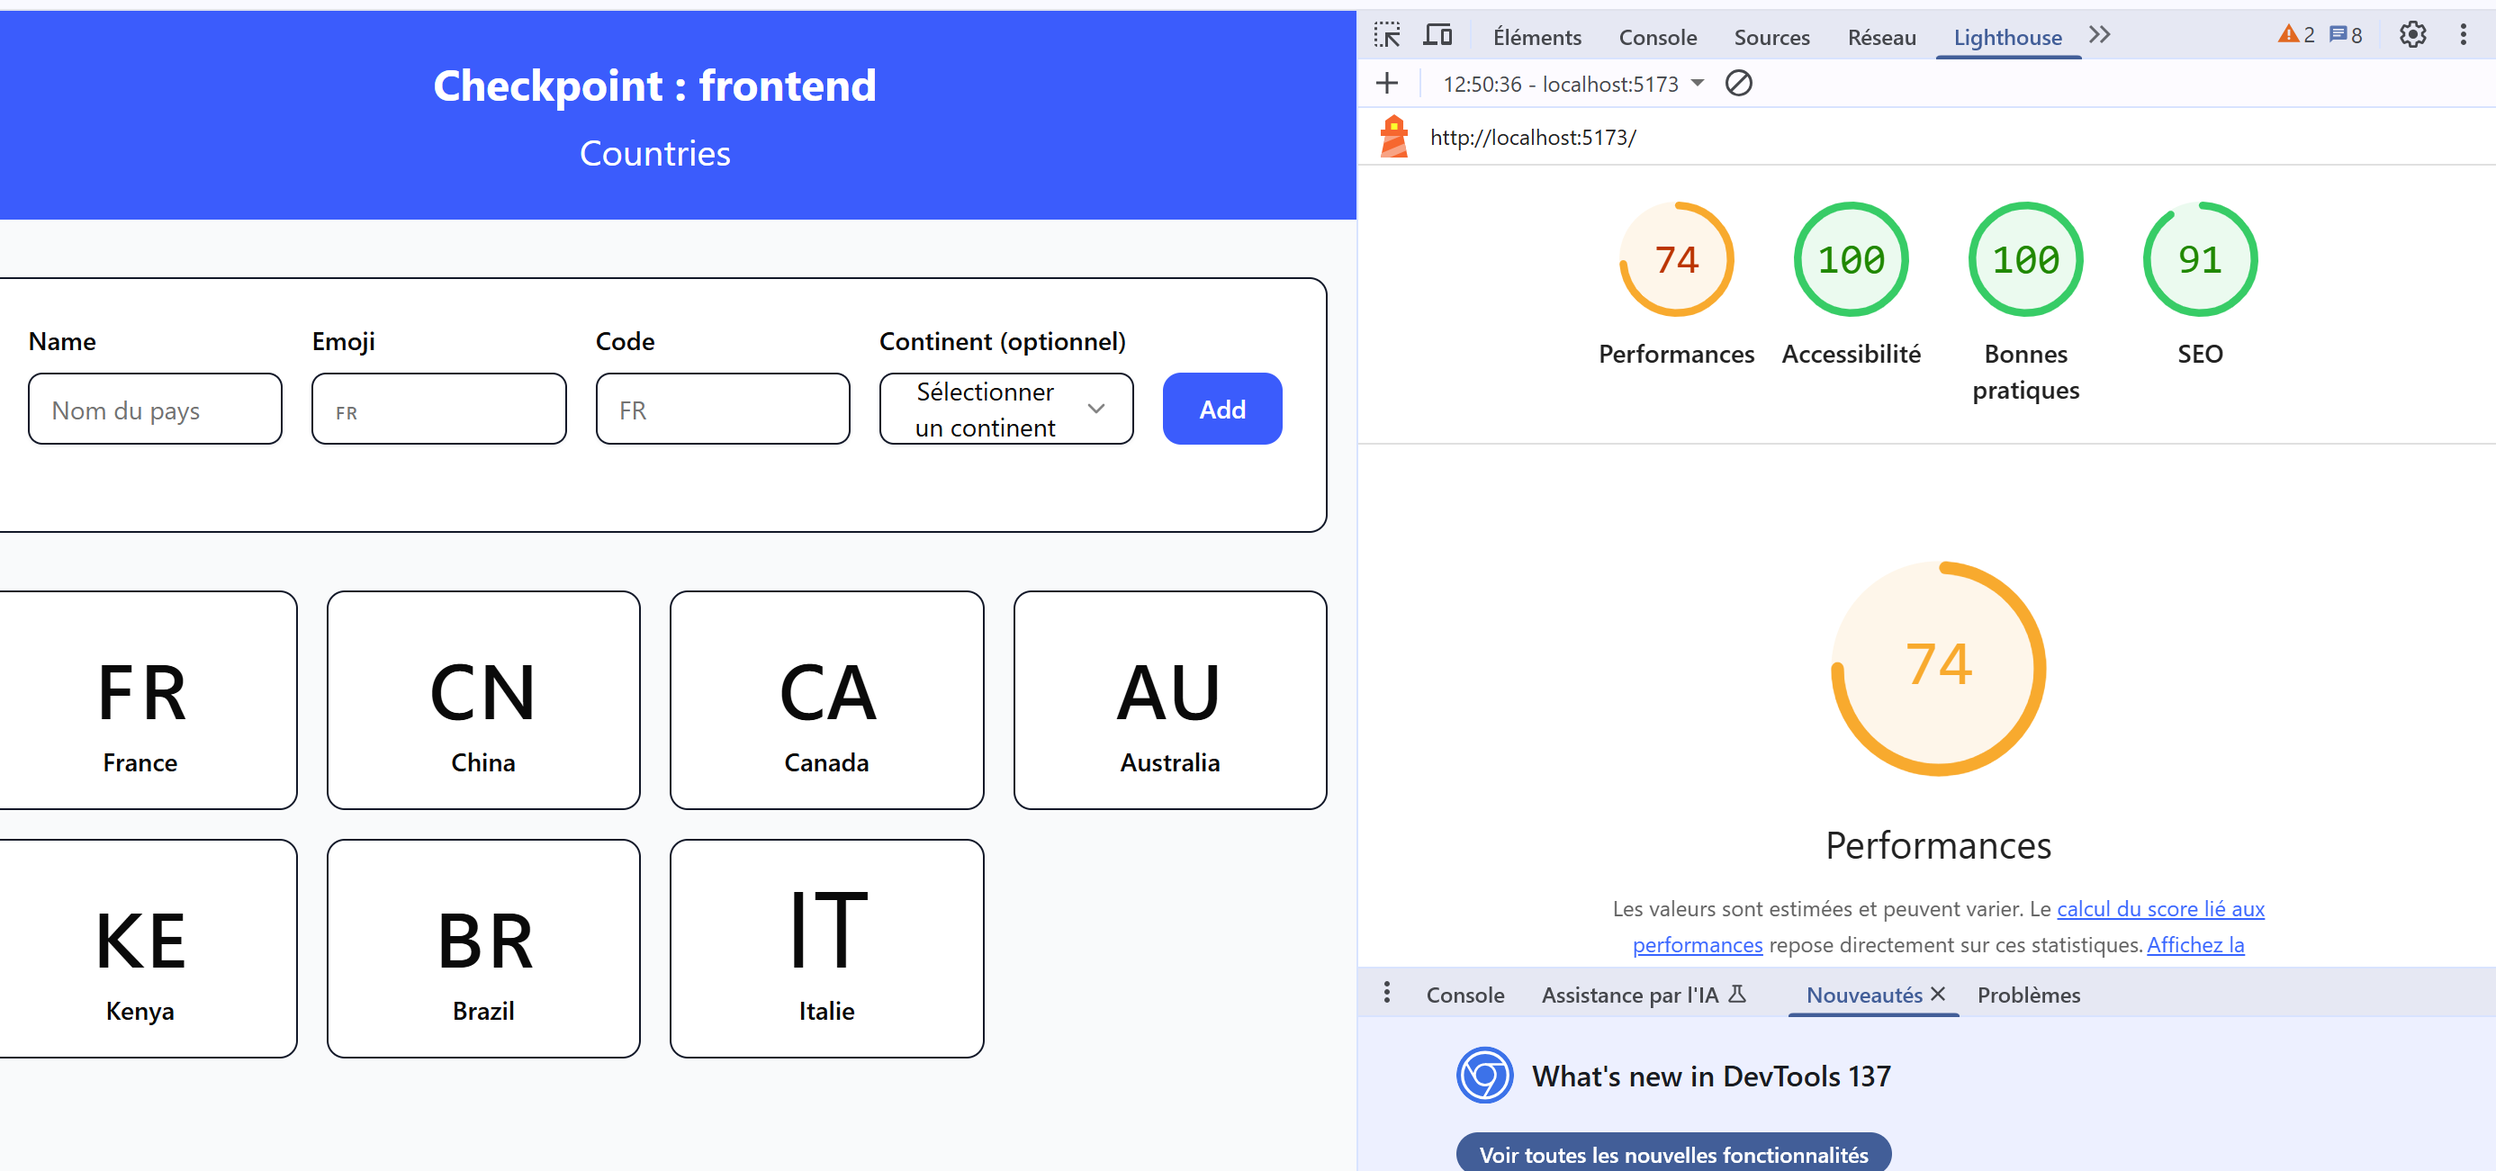
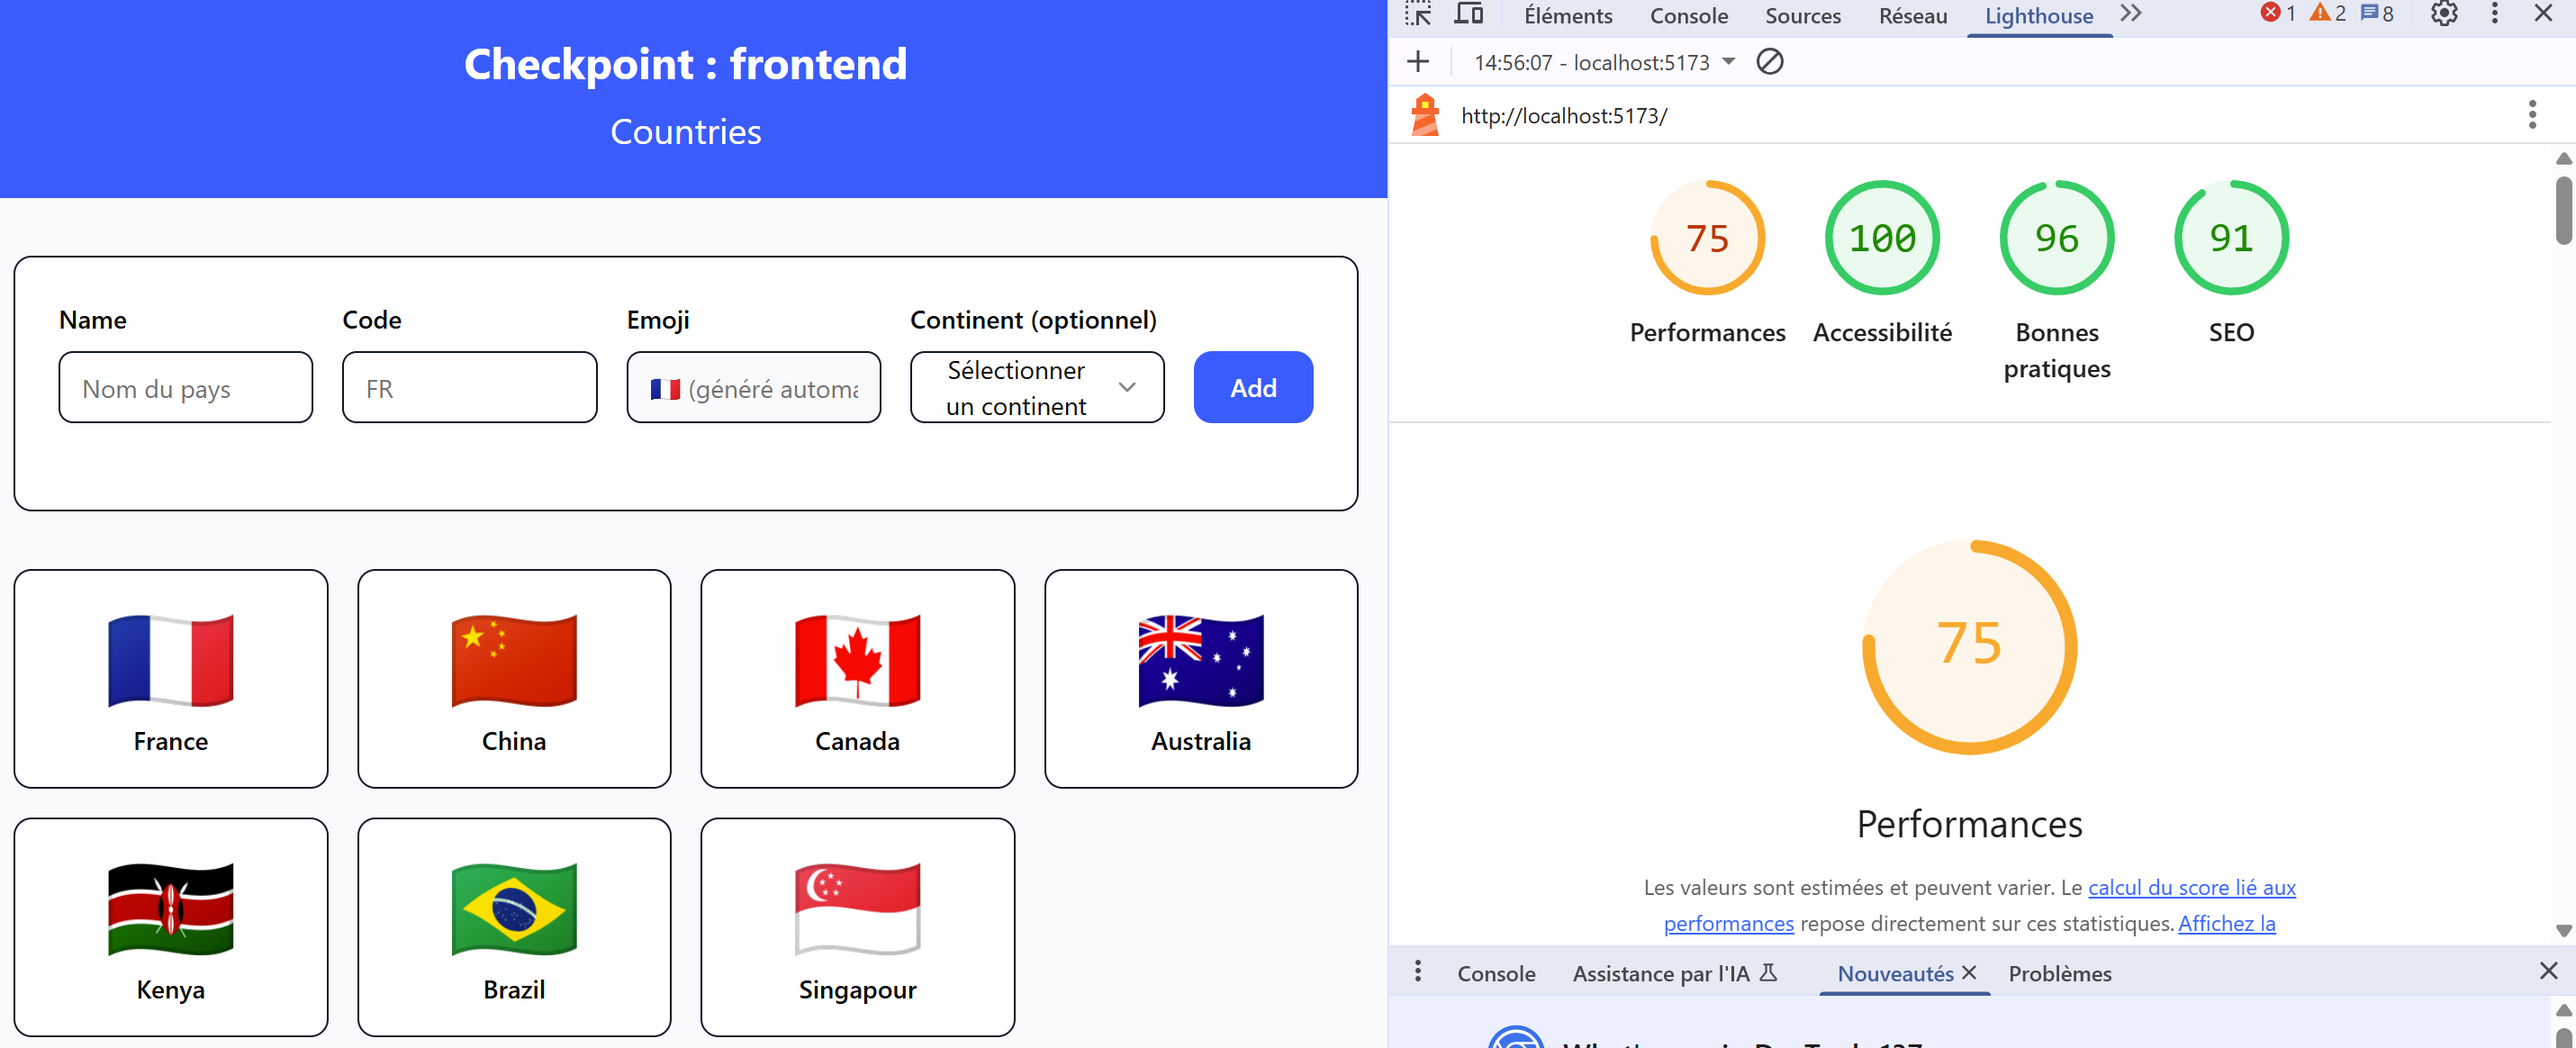
:sparkles: add new screensshots

diff --git a/frontend/src/components/AddCountryForm.tsx b/frontend/src/components/AddCountryForm.tsx
@@ -24,6 +24,20 @@ export function AddCountryForm({ onSuccess }: AddCountryFormProps) {
   });
   const [errors, setErrors] = useState<Record<string, string>>({});
 
+  // Fonction pour convertir un code pays en emoji drapeau
+  const codeToFlagEmoji = (code: string): string => {
+    // Vérifier que le code a 2 caractères
+    if (code.length !== 2) return "";
+
+    // Convertir chaque lettre en indicateur régional Unicode
+    const codePoints = code
+      .toUpperCase()
+      .split("")
+      .map((char) => 127397 + char.charCodeAt(0));
+
+    return String.fromCodePoint(...codePoints);
+  };
+
   const { data: continentsData } = useQuery<{ continents: Continent[] }>(
     GET_CONTINENTS
   );
@@ -60,9 +74,7 @@ export function AddCountryForm({ onSuccess }: AddCountryFormProps) {
     }
 
     if (!formData.emoji.trim()) {
-      newErrors.emoji = "L'emoji est requis";
-    } else if (formData.emoji.length > 4) {
-      newErrors.emoji = "L'emoji doit contenir au maximum 4 caractères";
+      newErrors.emoji = "Entrez d'abord un code pays à 2 lettres";
     }
 
     setErrors(newErrors);
@@ -83,7 +95,25 @@ export function AddCountryForm({ onSuccess }: AddCountryFormProps) {
   };
 
   const handleInputChange = (field: keyof NewCountryInput, value: string) => {
-    setFormData((prev) => ({ ...prev, [field]: value }));
+    setFormData((prev) => {
+      const newData = { ...prev, [field]: value };
+
+      // Si on modifie le code, mettre à jour automatiquement l'emoji
+      if (field === "code") {
+        if (value.length === 2) {
+          const flagEmoji = codeToFlagEmoji(value);
+          if (flagEmoji) {
+            newData.emoji = flagEmoji;
+          }
+        } else {
+          // Effacer l'emoji si le code n'a pas 2 caractères
+          newData.emoji = "";
+        }
+      }
+
+      return newData;
+    });
+
     if (errors[field]) {
       setErrors((prev) => ({ ...prev, [field]: "" }));
     }
@@ -116,21 +146,6 @@ export function AddCountryForm({ onSuccess }: AddCountryFormProps) {
         </div>
 
         <div className="flex-1">
-          <label className="block text-sm font-medium mb-2">Emoji</label>
-          <Input
-            value={formData.emoji}
-            onChange={(e) => handleInputChange("emoji", e.target.value)}
-            placeholder="🇫🇷"
-            aria-invalid={!!errors.emoji}
-          />
-          <div className="h-5 mt-1">
-            {errors.emoji && (
-              <div className="text-red-500 text-sm">{errors.emoji}</div>
-            )}
-          </div>
-        </div>
-
-        <div className="flex-1">
           <label className="block text-sm font-medium mb-2">Code</label>
           <Input
             value={formData.code}
@@ -144,6 +159,23 @@ export function AddCountryForm({ onSuccess }: AddCountryFormProps) {
           <div className="h-5 mt-1">
             {errors.code && (
               <div className="text-red-500 text-sm">{errors.code}</div>
+            )}
+          </div>
+        </div>
+
+        <div className="flex-1">
+          <label className="block text-sm font-medium mb-2">Emoji</label>
+          <Input
+            value={formData.emoji}
+            readOnly
+            placeholder="🇫🇷 (généré automatiquement)"
+            aria-invalid={!!errors.emoji}
+            className="bg-gray-50"
+            title="L'emoji est généré automatiquement à partir du code pays"
+          />
+          <div className="h-5 mt-1">
+            {errors.emoji && (
+              <div className="text-red-500 text-sm">{errors.emoji}</div>
             )}
           </div>
         </div>
